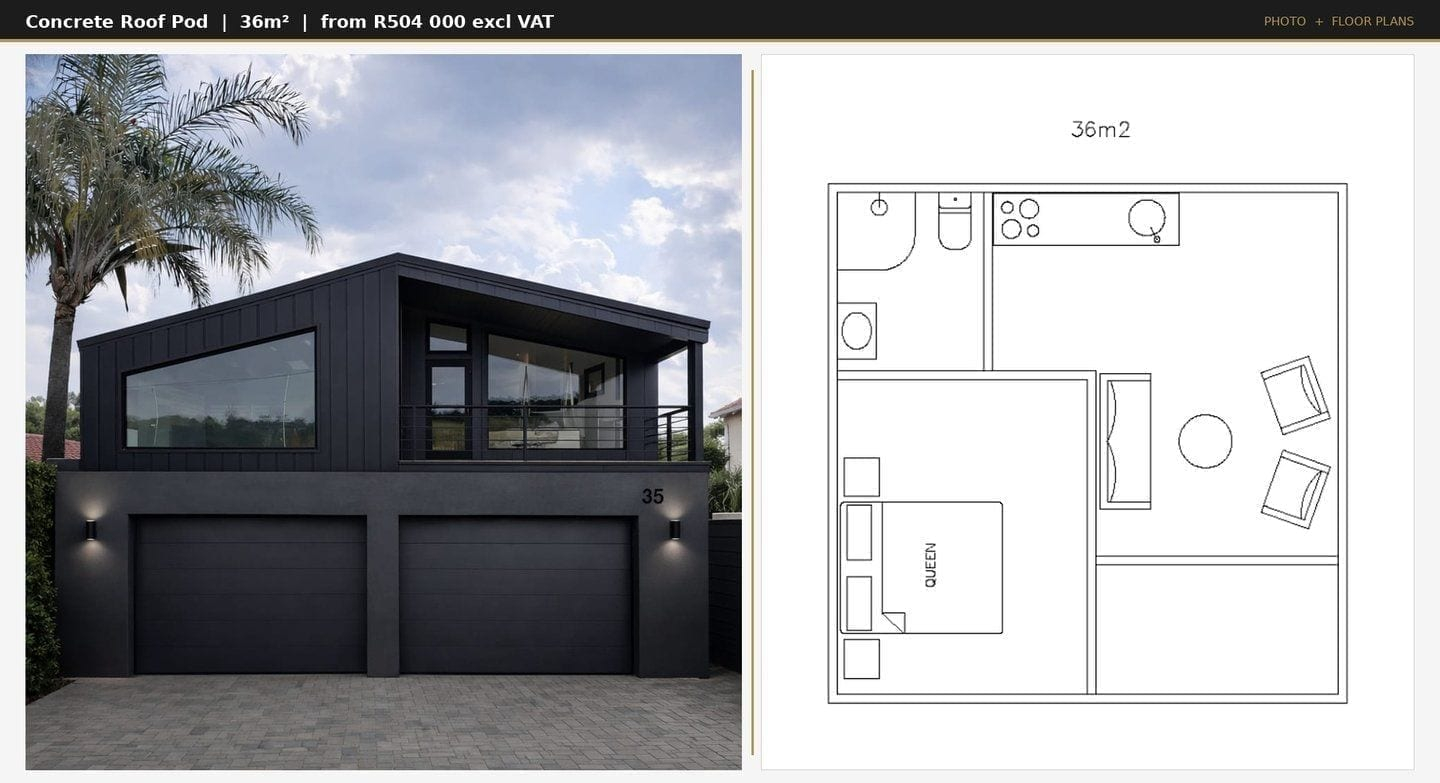
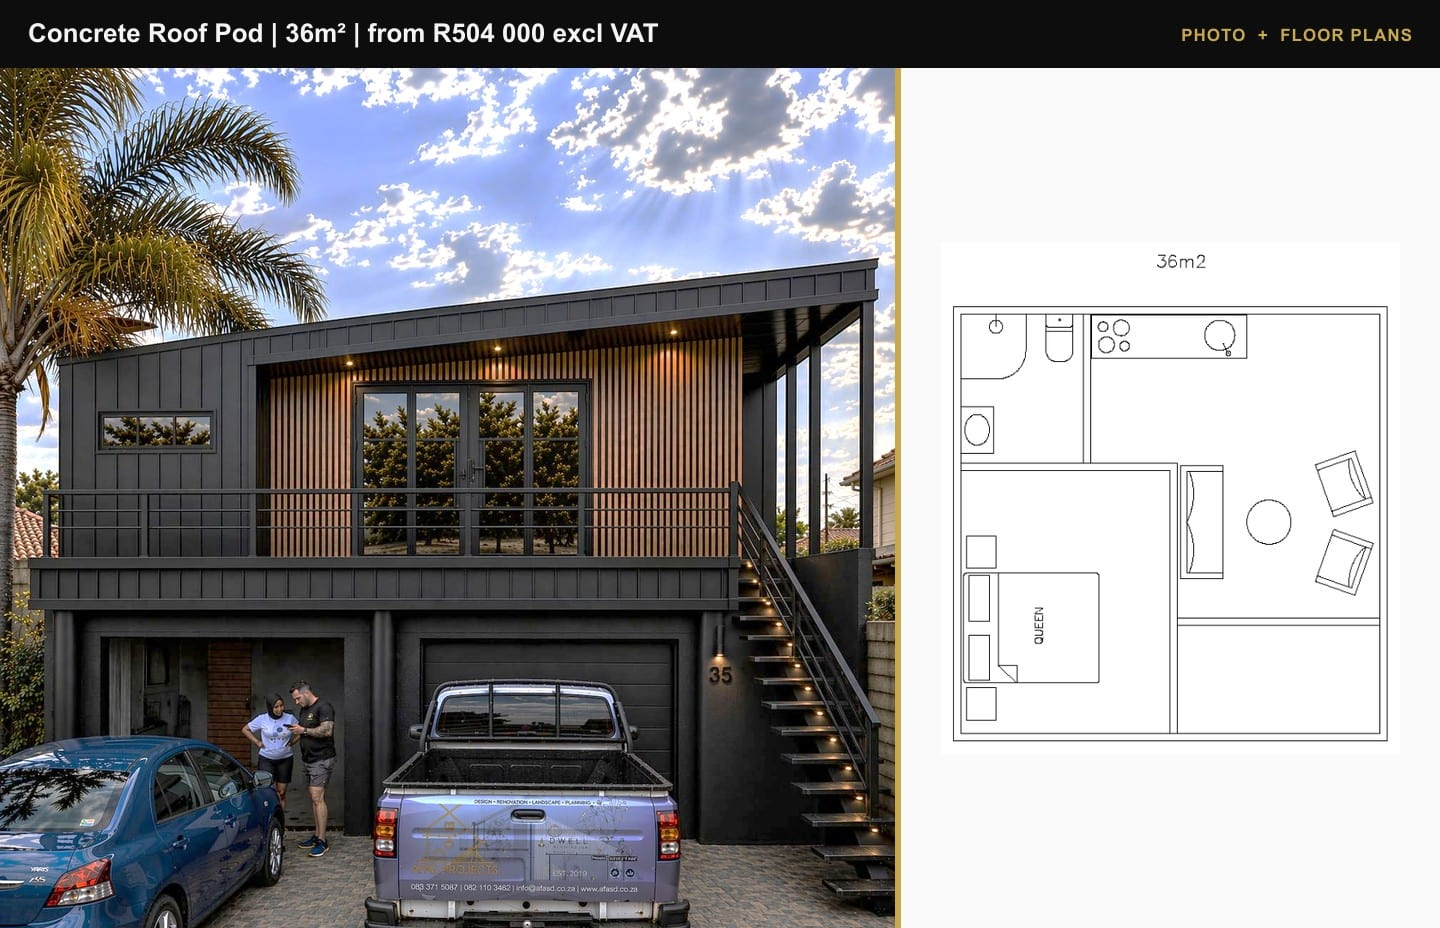
Match Pod 3/6, Guard House and Concrete Roof Pod to brochure; remove duplicate Bidwell hero; refresh some pod photos
Reference: BIDWELL BROCHURE REDESIGN.pptx (extracted slide images/text since
Python/LibreOffice aren't available in this environment - read the pptx as a
raw zip, matched each pod's photo/floorplan via their descr attributes e.g.
cards/fp_pod3.png, and cross-checked position offsets to confirm left/right
pod ordering per slide).

- Pod 3, Pod 6, and Concrete Roof Pod: floor plans already matched the
  brochure exactly, only the hero photos were wrong. Rebuilt all 3 composite
  card images (header bar + photo + gold divider + floor plan panel) using
  the brochure's actual photos, keeping the existing floor plan diagrams and
  pricing text untouched. Matched the site's exact brand colors (#0D0D0D /
  #C8A84B) and Pod 1's template proportions for a pixel-consistent look.
- Guard House: swapped the AI-rendered photo for the brochure's real photo
  of the actual built unit (no floor plan on this card, same as brochure).
- Removed the 'Accommodation Pods' hero banner section from bidwell.html
  per screenshot (was sitting between the financing banner and the CTA).
- Refreshed 3 of the 6 pod thumbnails in the Accommodation Pods services
  section with different photos from the larger pod set; deleted the 3
  photos this orphaned.

Verified: zero broken references, zero on-page duplicates, all 4 replaced
images serve correctly.

diff --git a/services.html b/services.html
@@ -110,9 +110,9 @@
               <img width="2992" height="2992" src="images/chosen/services-pod1.jpg" alt="Accommodation pod" loading="lazy">
               <img width="2992" height="2992" src="images/chosen/services-pod2.jpg" alt="Accommodation pod" loading="lazy">
               <img width="2992" height="2992" src="images/chosen/services-pod3.jpg" alt="Accommodation pod" loading="lazy">
-              <img width="2992" height="2992" src="images/chosen/services-pod4.jpg" alt="Accommodation pod" loading="lazy">
-              <img width="2992" height="2992" src="images/chosen/services-pod5.jpg" alt="Accommodation pod" loading="lazy">
-              <img width="2992" height="2992" src="images/chosen/services-pod6.jpg" alt="Accommodation pod" loading="lazy">
+              <img width="1080" height="1074" src="images/chosen/bidwell-pod12.jpg" alt="Accommodation pod" loading="lazy">
+              <img width="1496" height="1496" src="images/chosen/bidwell-pod16.jpg" alt="Accommodation pod" loading="lazy">
+              <img width="1496" height="1496" src="images/chosen/bidwell-pod20.jpg" alt="Accommodation pod" loading="lazy">
             </div>
             <a href="gallery.html" class="btn btn-ghost service-view-all">View all in Gallery</a>
           </div>

diff --git a/bidwell.html b/bidwell.html
@@ -409,19 +409,6 @@
       </div>
     </div>
 
-    <!-- Hero (moved to bottom) -->
-    <header class="page-hero"
-      style="background-image: url('images/shared/whatsapp-image-2026-02-20-at-06.53.15-475xbustpbl3tkb2.jpeg');">
-      <div class="container">
-        <span class="eyebrow">Bidwell Pod Living Solutions</span>
-        <h1>Accommodation Pods</h1>
-        <p style="color:rgba(245,245,245,0.75);font-size:1.05rem;margin-top:0.75rem;">
-          From vacant plots to vibrant stays — reimagining modern living.
-        </p>
-        <p class="breadcrumb"><a href="index.html">Home</a> &rsaquo; Bidwell Pods</p>
-      </div>
-    </header>
-
     <!-- CTA -->
     <section class="cta-banner">
       <div class="container">
